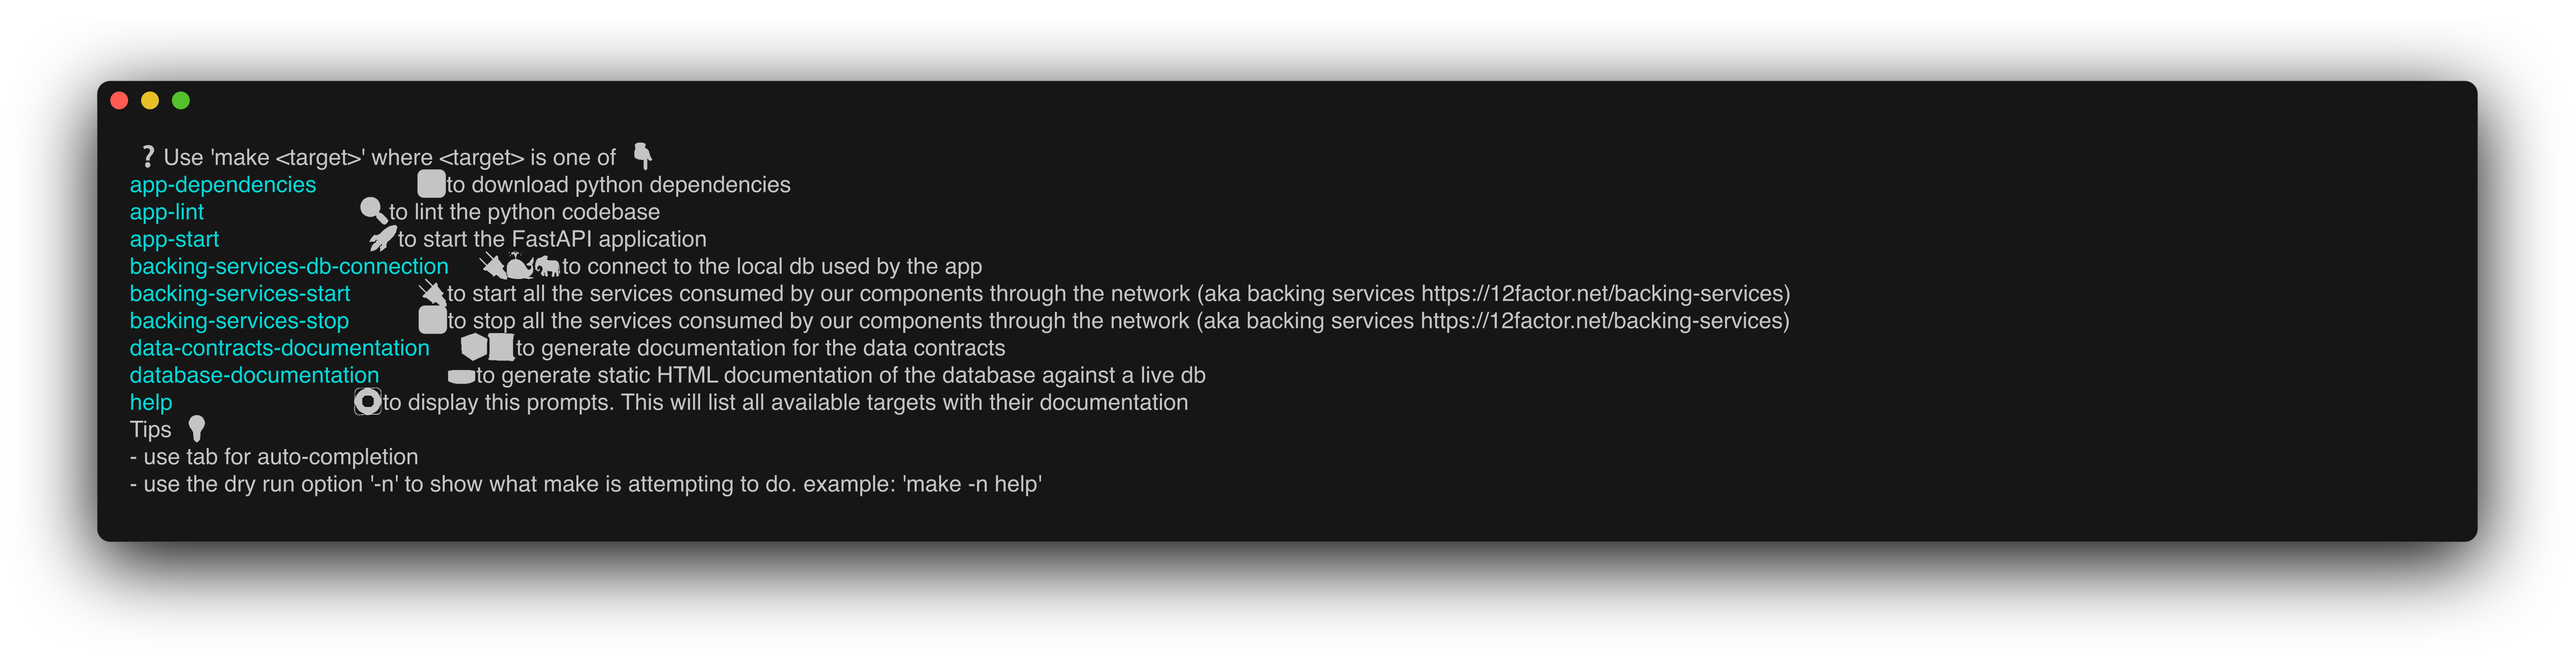
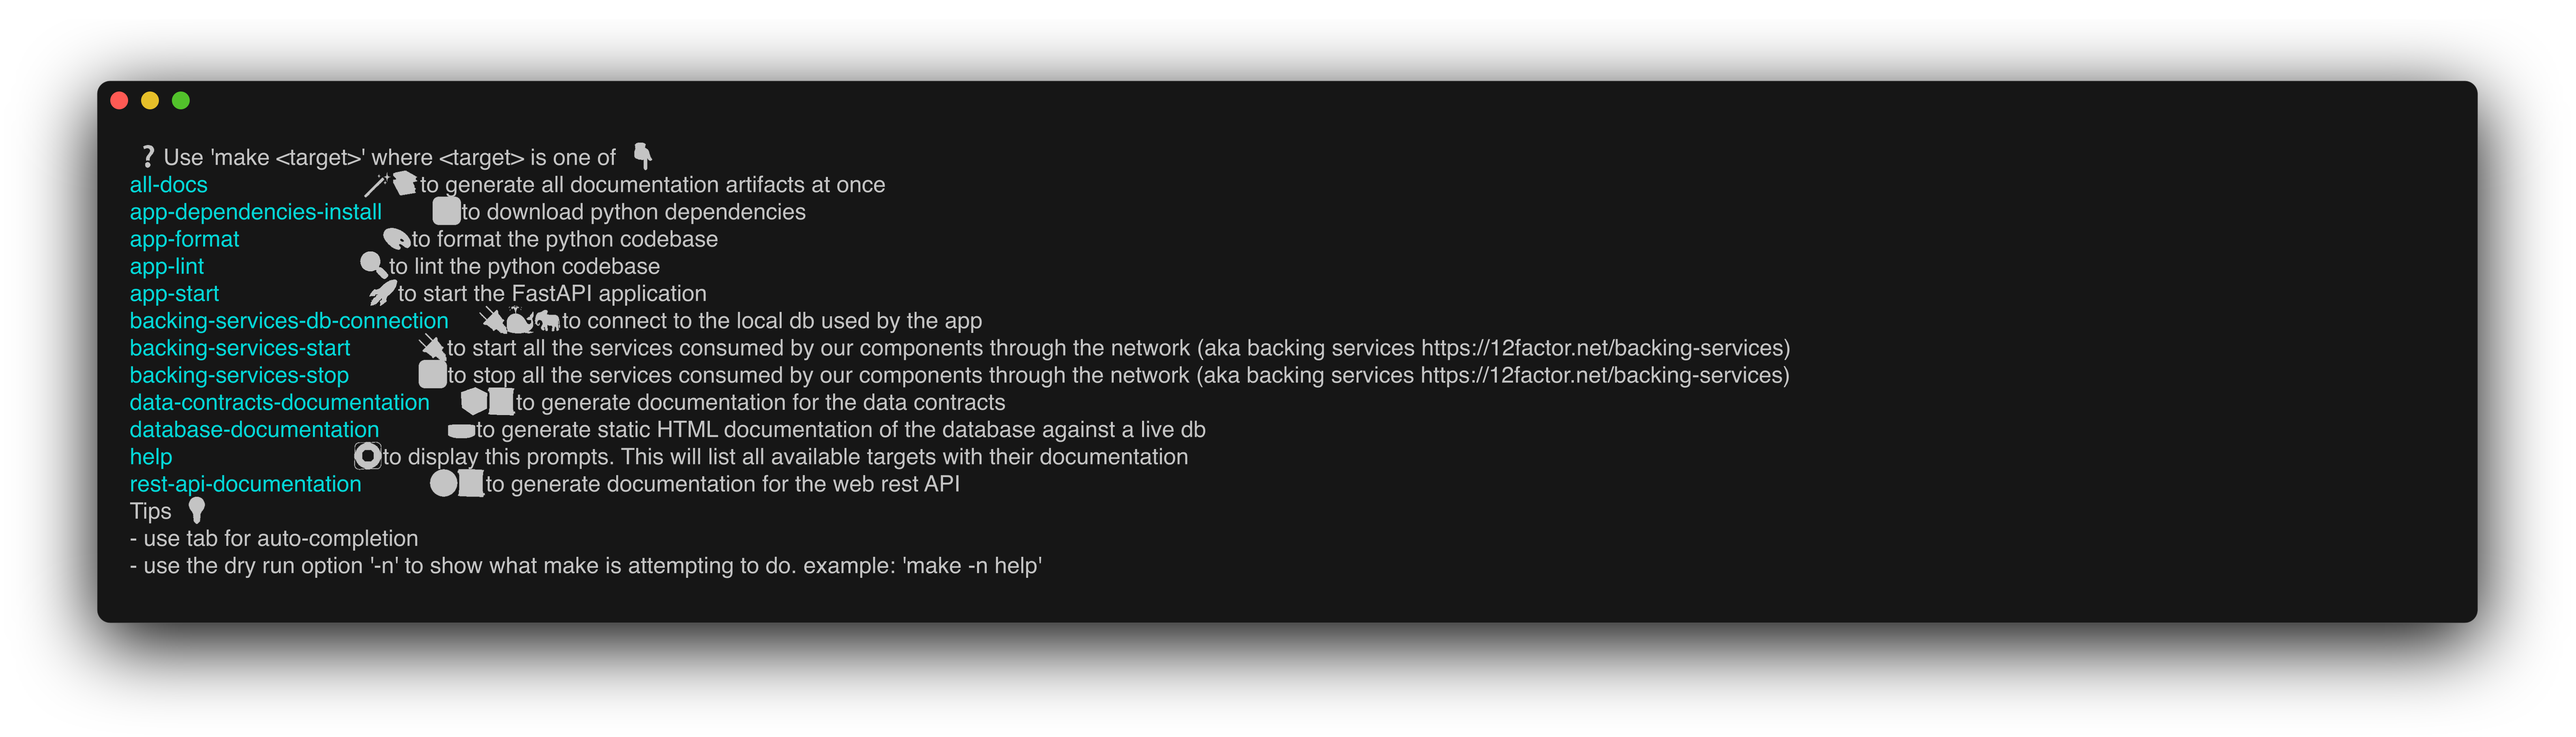
docs: documenting web rest api specification

Changed region(s): [[0.0312, 0.1852, 0.966, 0.8951], [0.0312, 0.0926, 0.966, 0.1852]]

diff --git a/docs/data_contracts/generated_docs/Departments/department_specification.html b/docs/data_contracts/generated_docs/Departments/department_specification.html
@@ -104,6 +104,6 @@
 </div>
 
     <footer>
-        <p class="generated-by-footer">Generated using <a href="https://github.com/coveooss/json-schema-for-humans">json-schema-for-humans</a> on 2025-12-10 at 12:09:37 +0100</p>
+        <p class="generated-by-footer">Generated using <a href="https://github.com/coveooss/json-schema-for-humans">json-schema-for-humans</a> on 2025-12-10 at 13:17:04 +0100</p>
     </footer></body>
 </html>

diff --git a/README.md b/README.md
@@ -84,6 +84,12 @@ The API documentation will be automatically available at the following urls once
 |   ![](./docs/rest_api/openapi.png)   |     ![](./docs/rest_api/redoc.png)     |
 | [🔗 link](http://127.0.0.1:8000/docs) | [🔗  link](http://127.0.0.1:8000/redoc) |
 
+To download the JSON specification file and store it @ [openapi.json](./docs/rest_api/openapi.json), run : 
+
+```bash
+make rest-api-documentation;
+```
+
 #### How does it work
 
 - This documentation is automatically rendered from how the API is modelled in the code, 
@@ -94,7 +100,7 @@ The API documentation will be automatically available at the following urls once
 
 For whatever reason, you may need to exchange `Departments` data with other teams without the REST API, through CSV flat files for example.
 
-The JSON Schema specification can help define the interface contract between you and third parties (expected fields, constraints, etc ...) of the data you wille expose (or expected) through this file medium.
+The JSON Schema specification can help define the interface contract between you and third parties (expected fields, constraints, etc ...) of the data you will expose (or expect) through this file medium.
 
 You can generate such a document from the code, with the following command:
 
